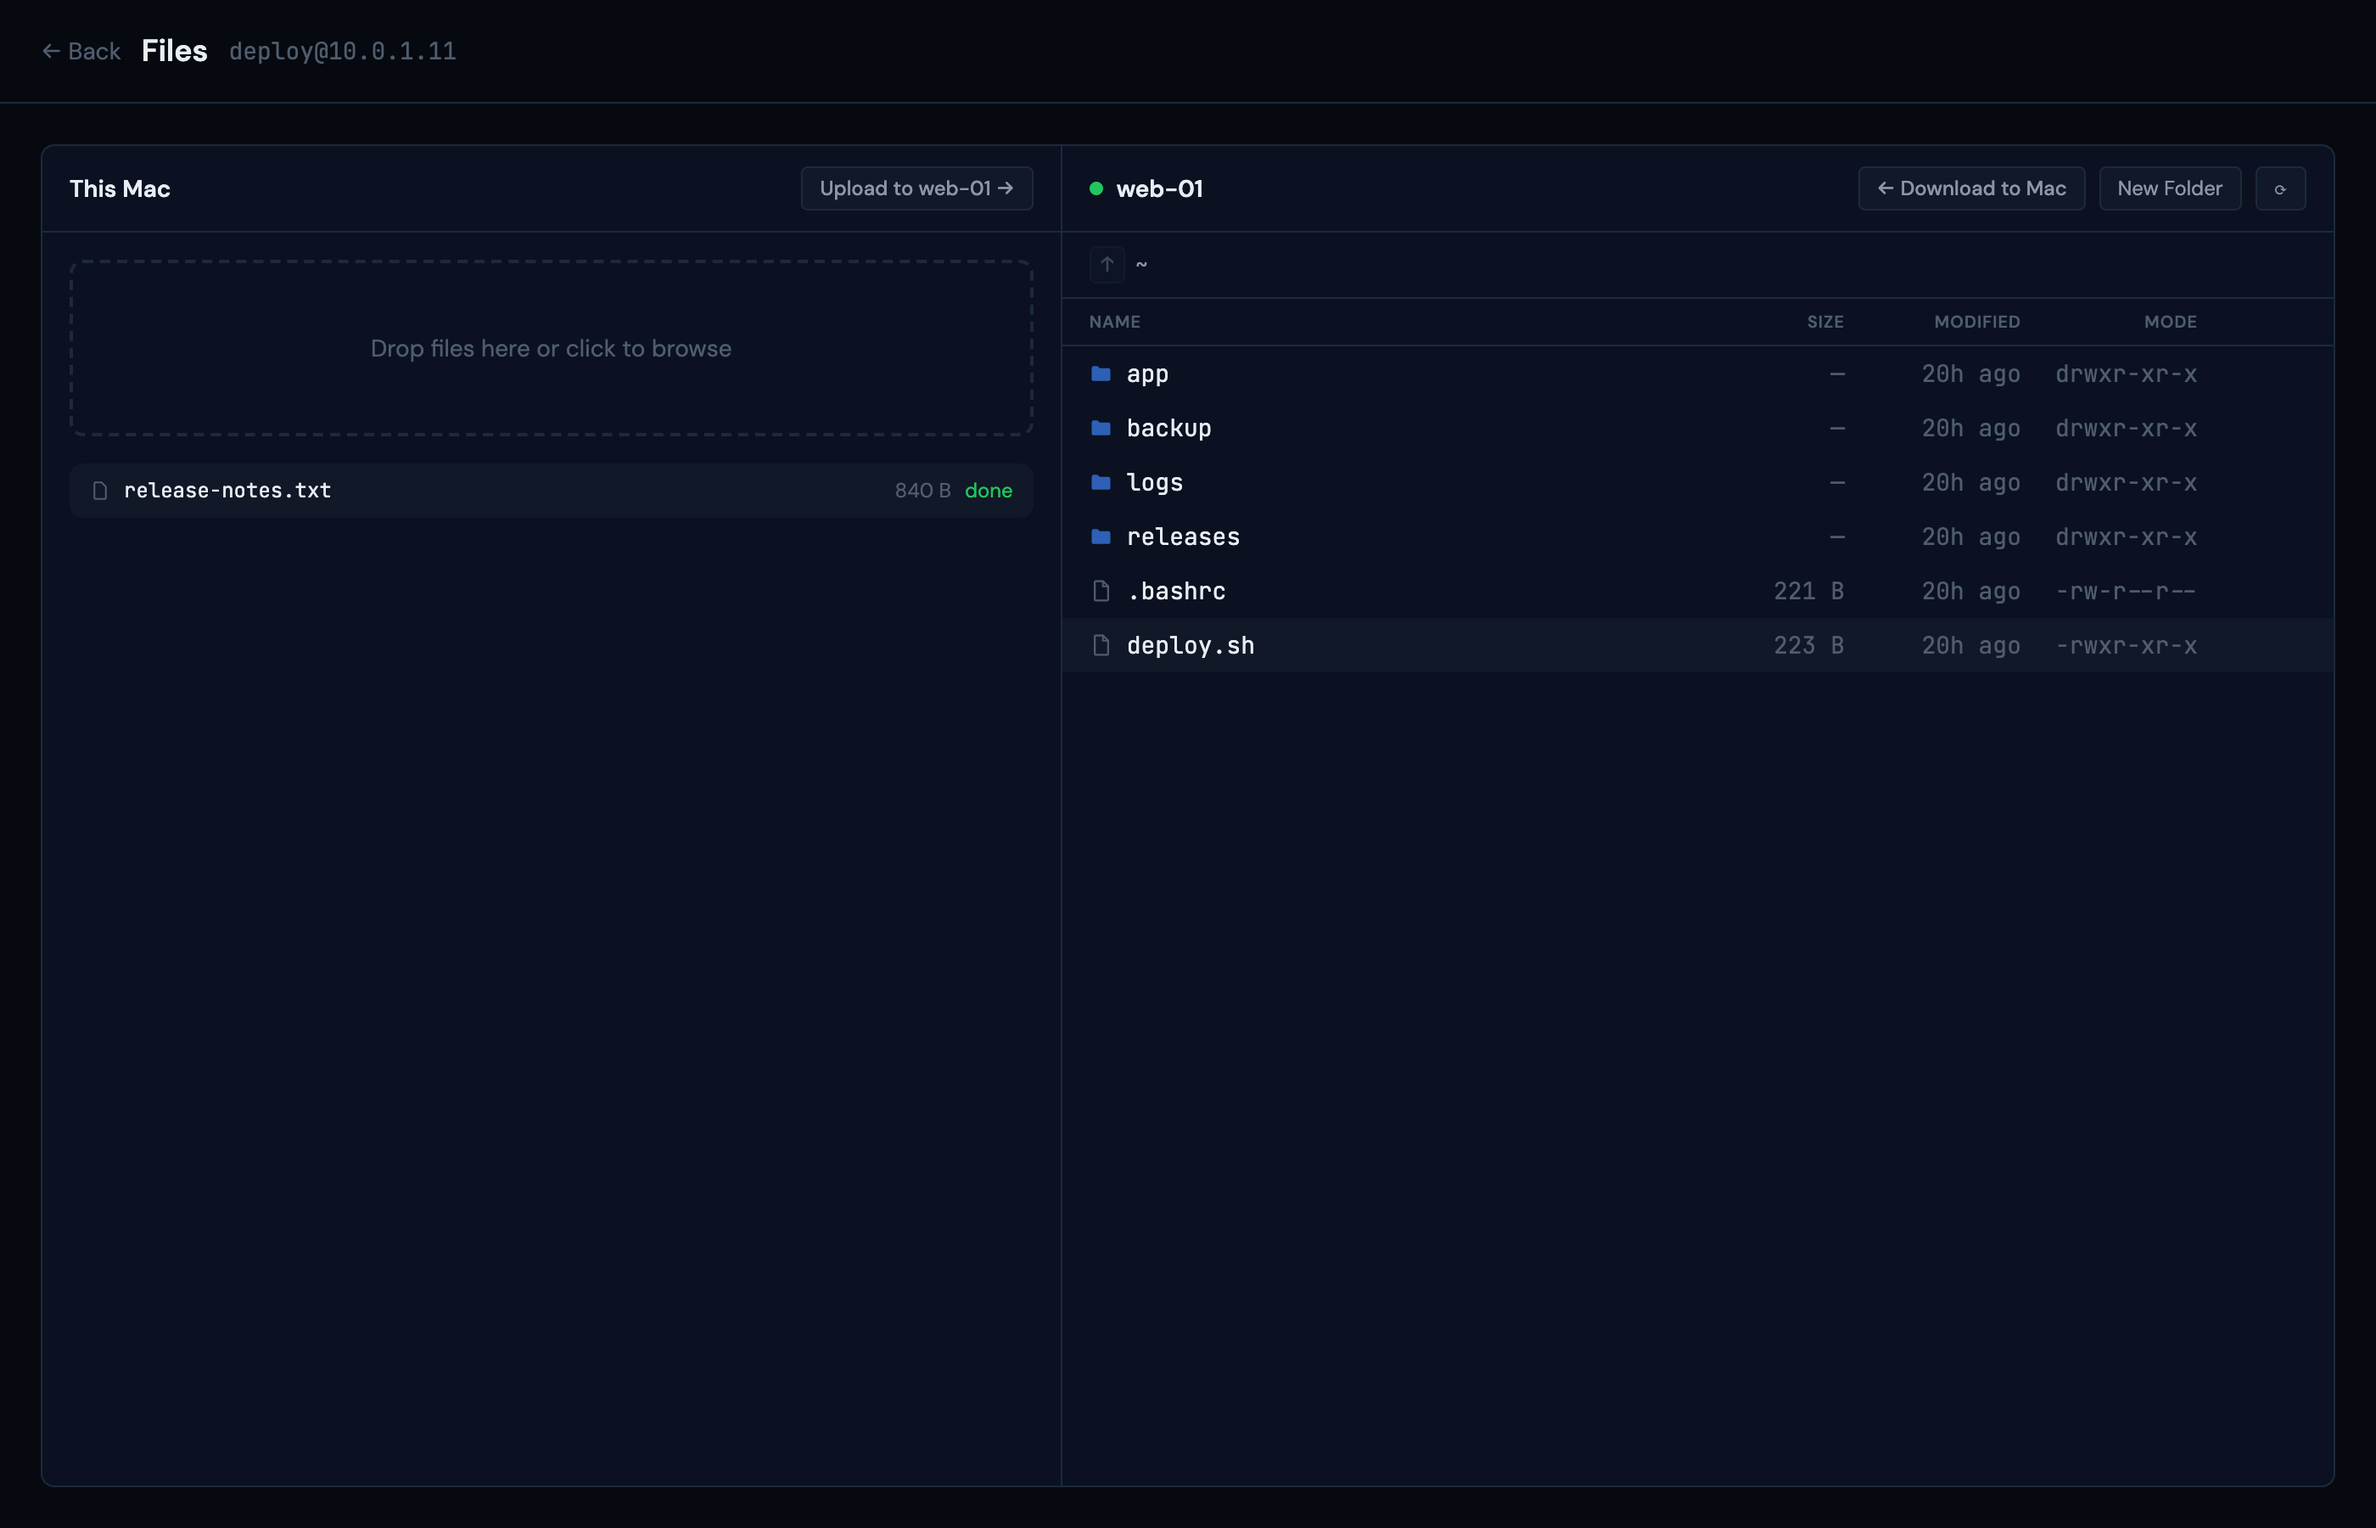
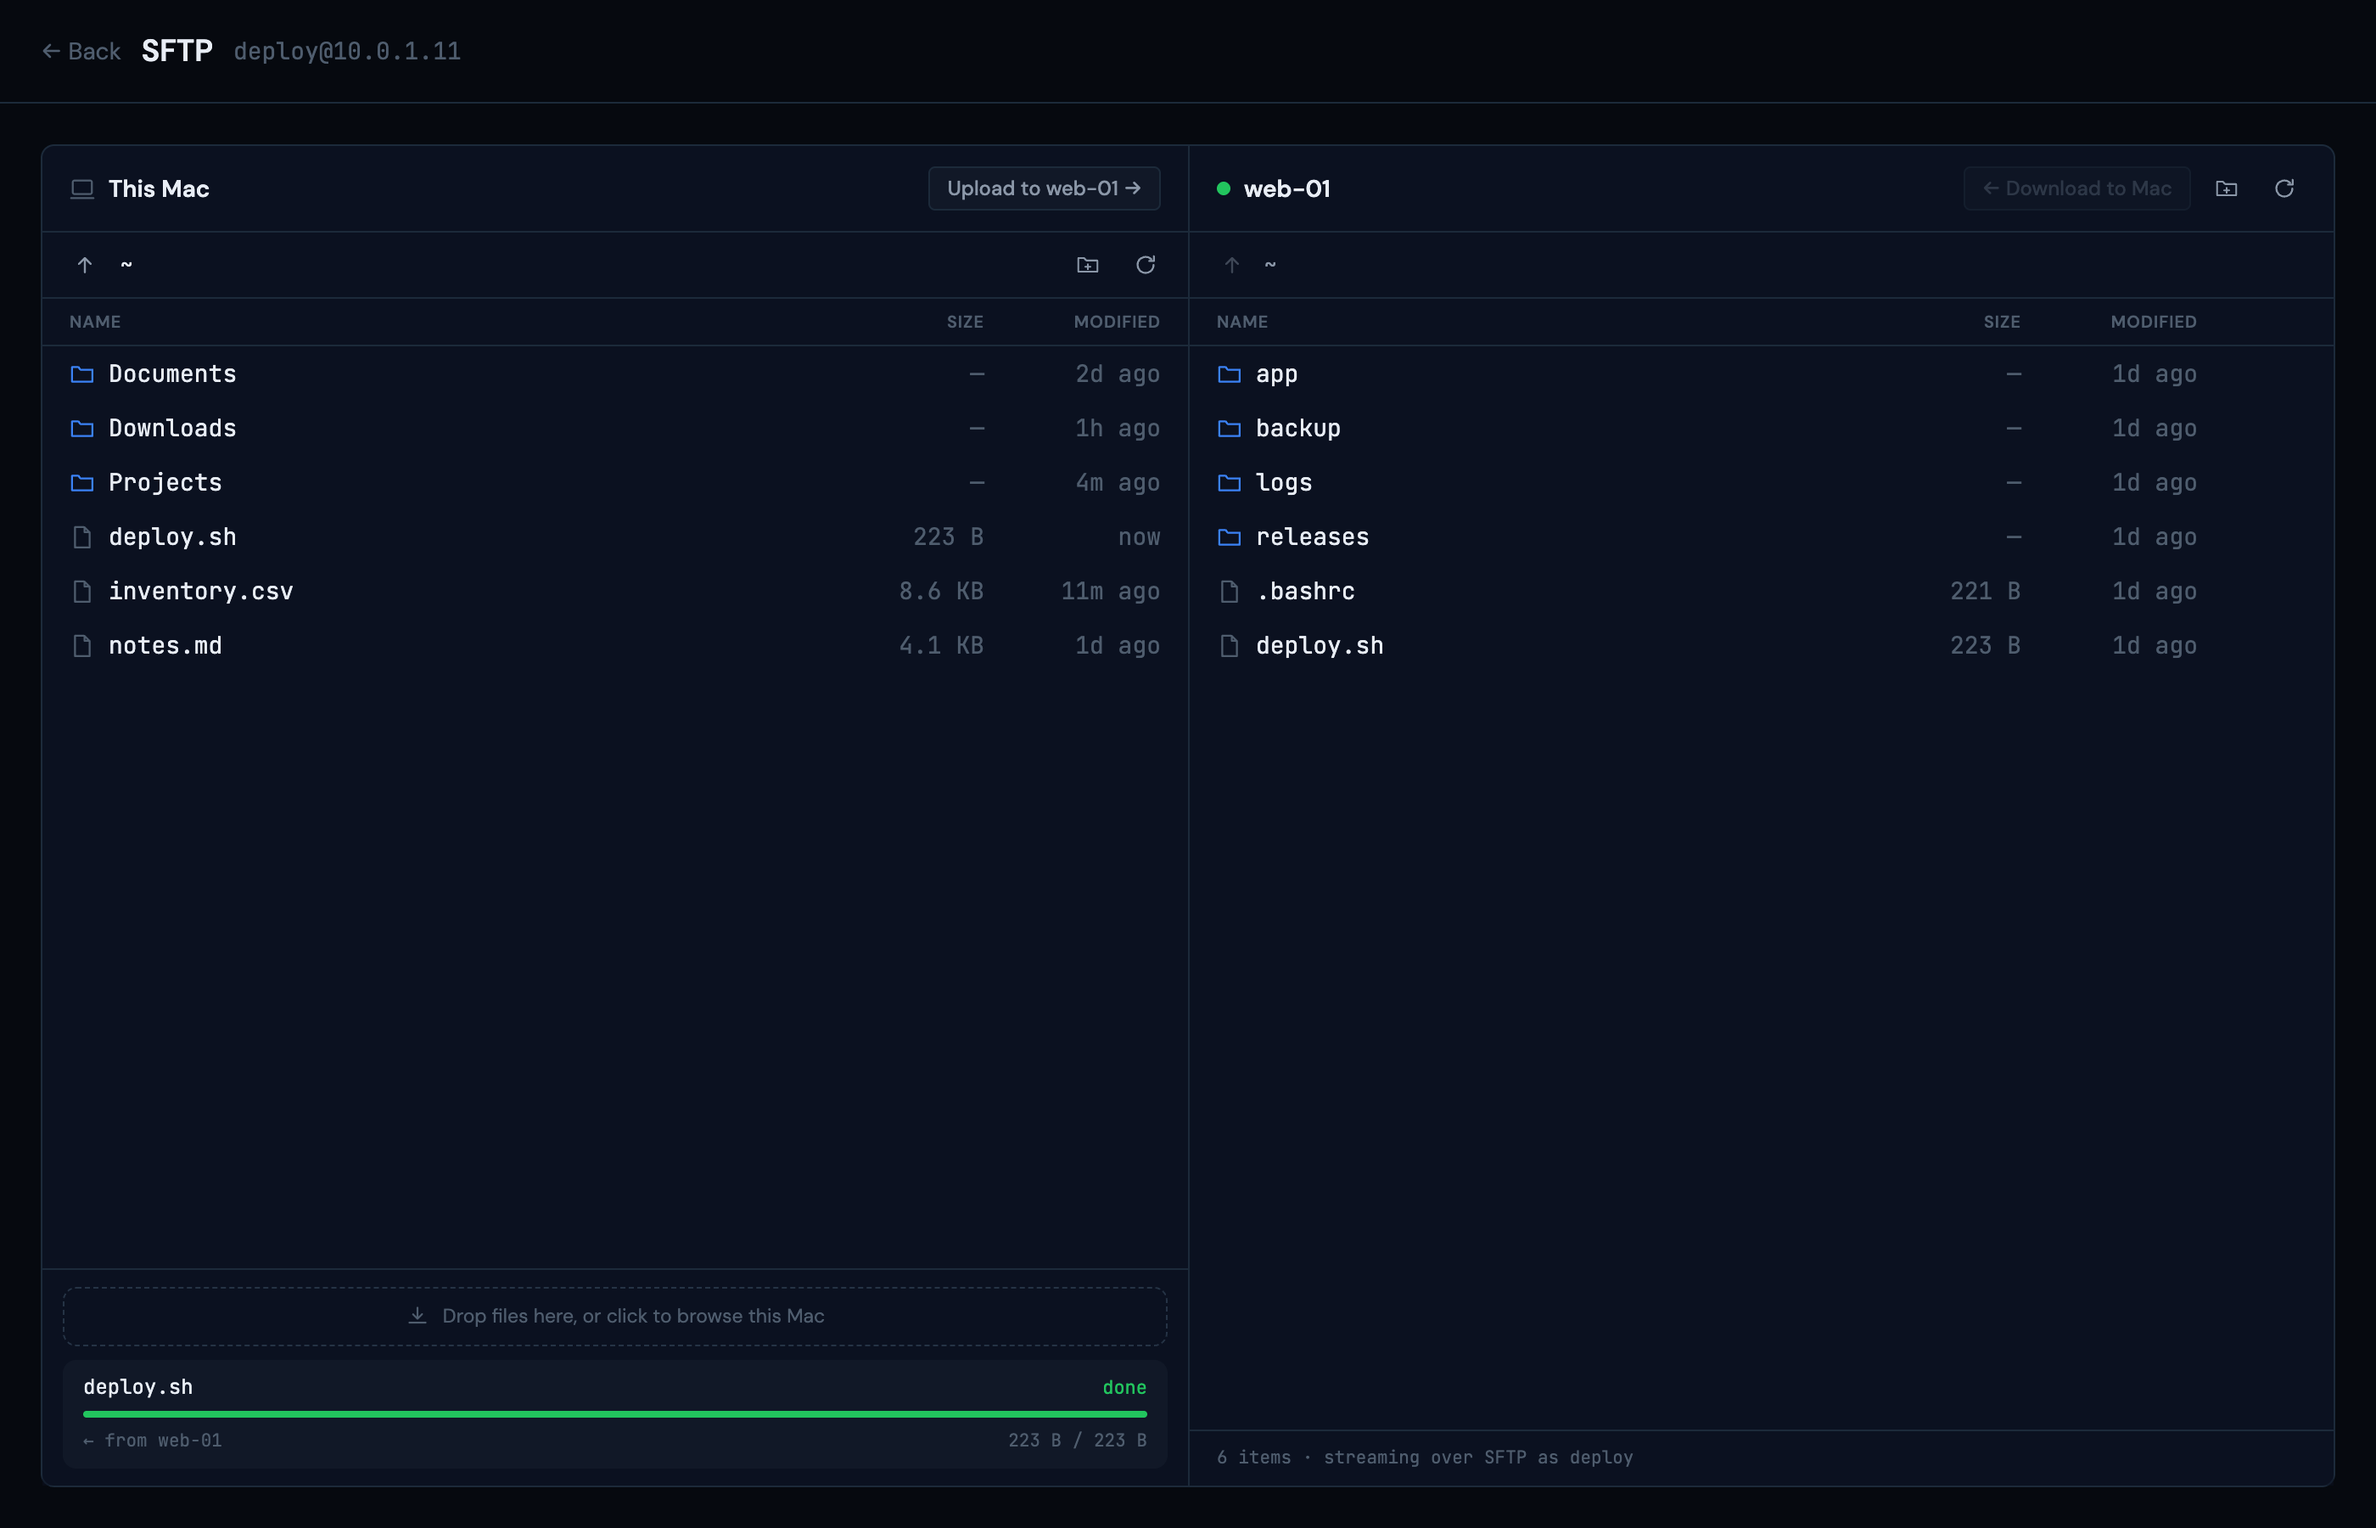
docs: SFTP local browser, transfer endpoints and refreshed screenshot

diff --git a/docs/DOCUMENTATION.md b/docs/DOCUMENTATION.md
@@ -305,6 +305,16 @@ Every route below is relative to the server address, for example `http://localho
 | DELETE | `/api/servers/{id}/files` | Delete a file or directory |
 | POST | `/api/servers/{id}/files/mkdir` | Create a directory |
 
+The SFTP page also offers a local file browser with server-side transfers. These routes touch the host machine's filesystem, so they are superadmin-only:
+
+| Method | Path | Description |
+|--------|------|-------------|
+| GET | `/api/localfs` | List a local directory (defaults to home) |
+| POST | `/api/localfs/mkdir` | Create a local directory |
+| POST | `/api/servers/{id}/files/pull` | Copy a remote file to a local directory (streamed server-side) |
+| POST | `/api/servers/{id}/files/push` | Copy a local file to a remote directory |
+| GET | `/api/transfers` | Progress of active and recent transfers |
+
 ### Commands & Audit
 | Method | Path | Description |
 |--------|------|-------------|

diff --git a/README.md b/README.md
@@ -90,10 +90,11 @@ One command, the whole fleet. Pick targets by group and watch every server repor
 
 Dual-pane file manager over your existing SSH connection, powered by `github.com/pkg/sftp`.
 
+- Real local file browser side by side with the server (superadmin) — drag a file either direction and it streams straight to the folder you are looking at, no browser downloads
+- Live per-transfer progress with byte counts
 - Drag files from your desktop straight to the server
-- Per-file upload progress, streamed downloads
 - Breadcrumb navigation, permissions at a glance, create directories
-- Every upload, download, and delete is audited
+- Every transfer and delete is audited, broadcast runs tagged in the audit trail
 
 </td>
 </tr>
